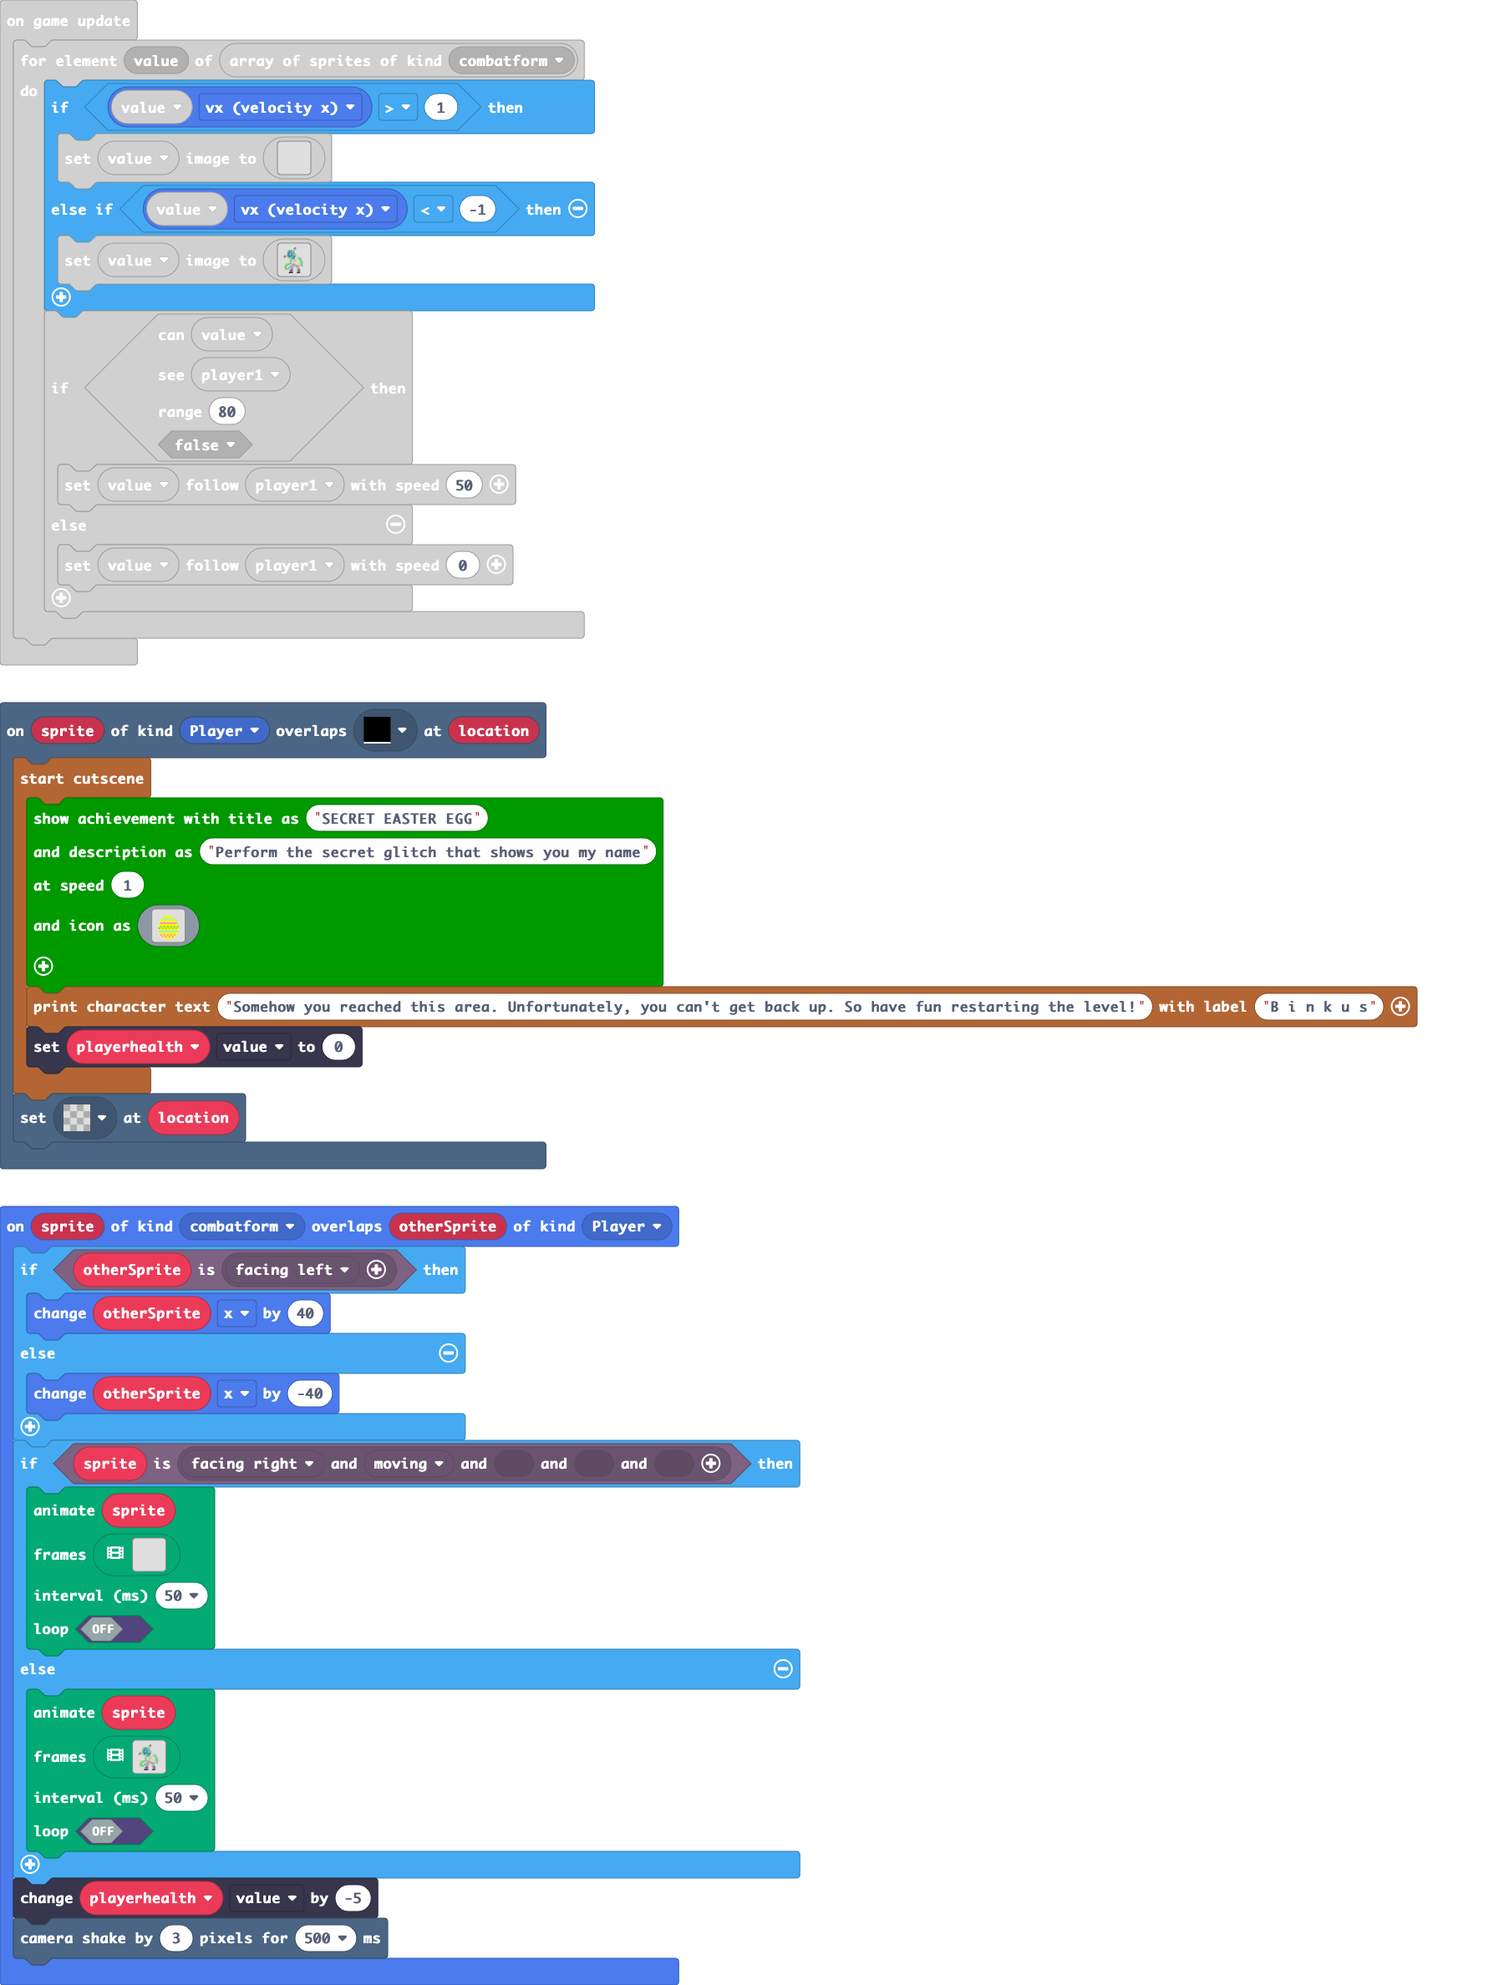
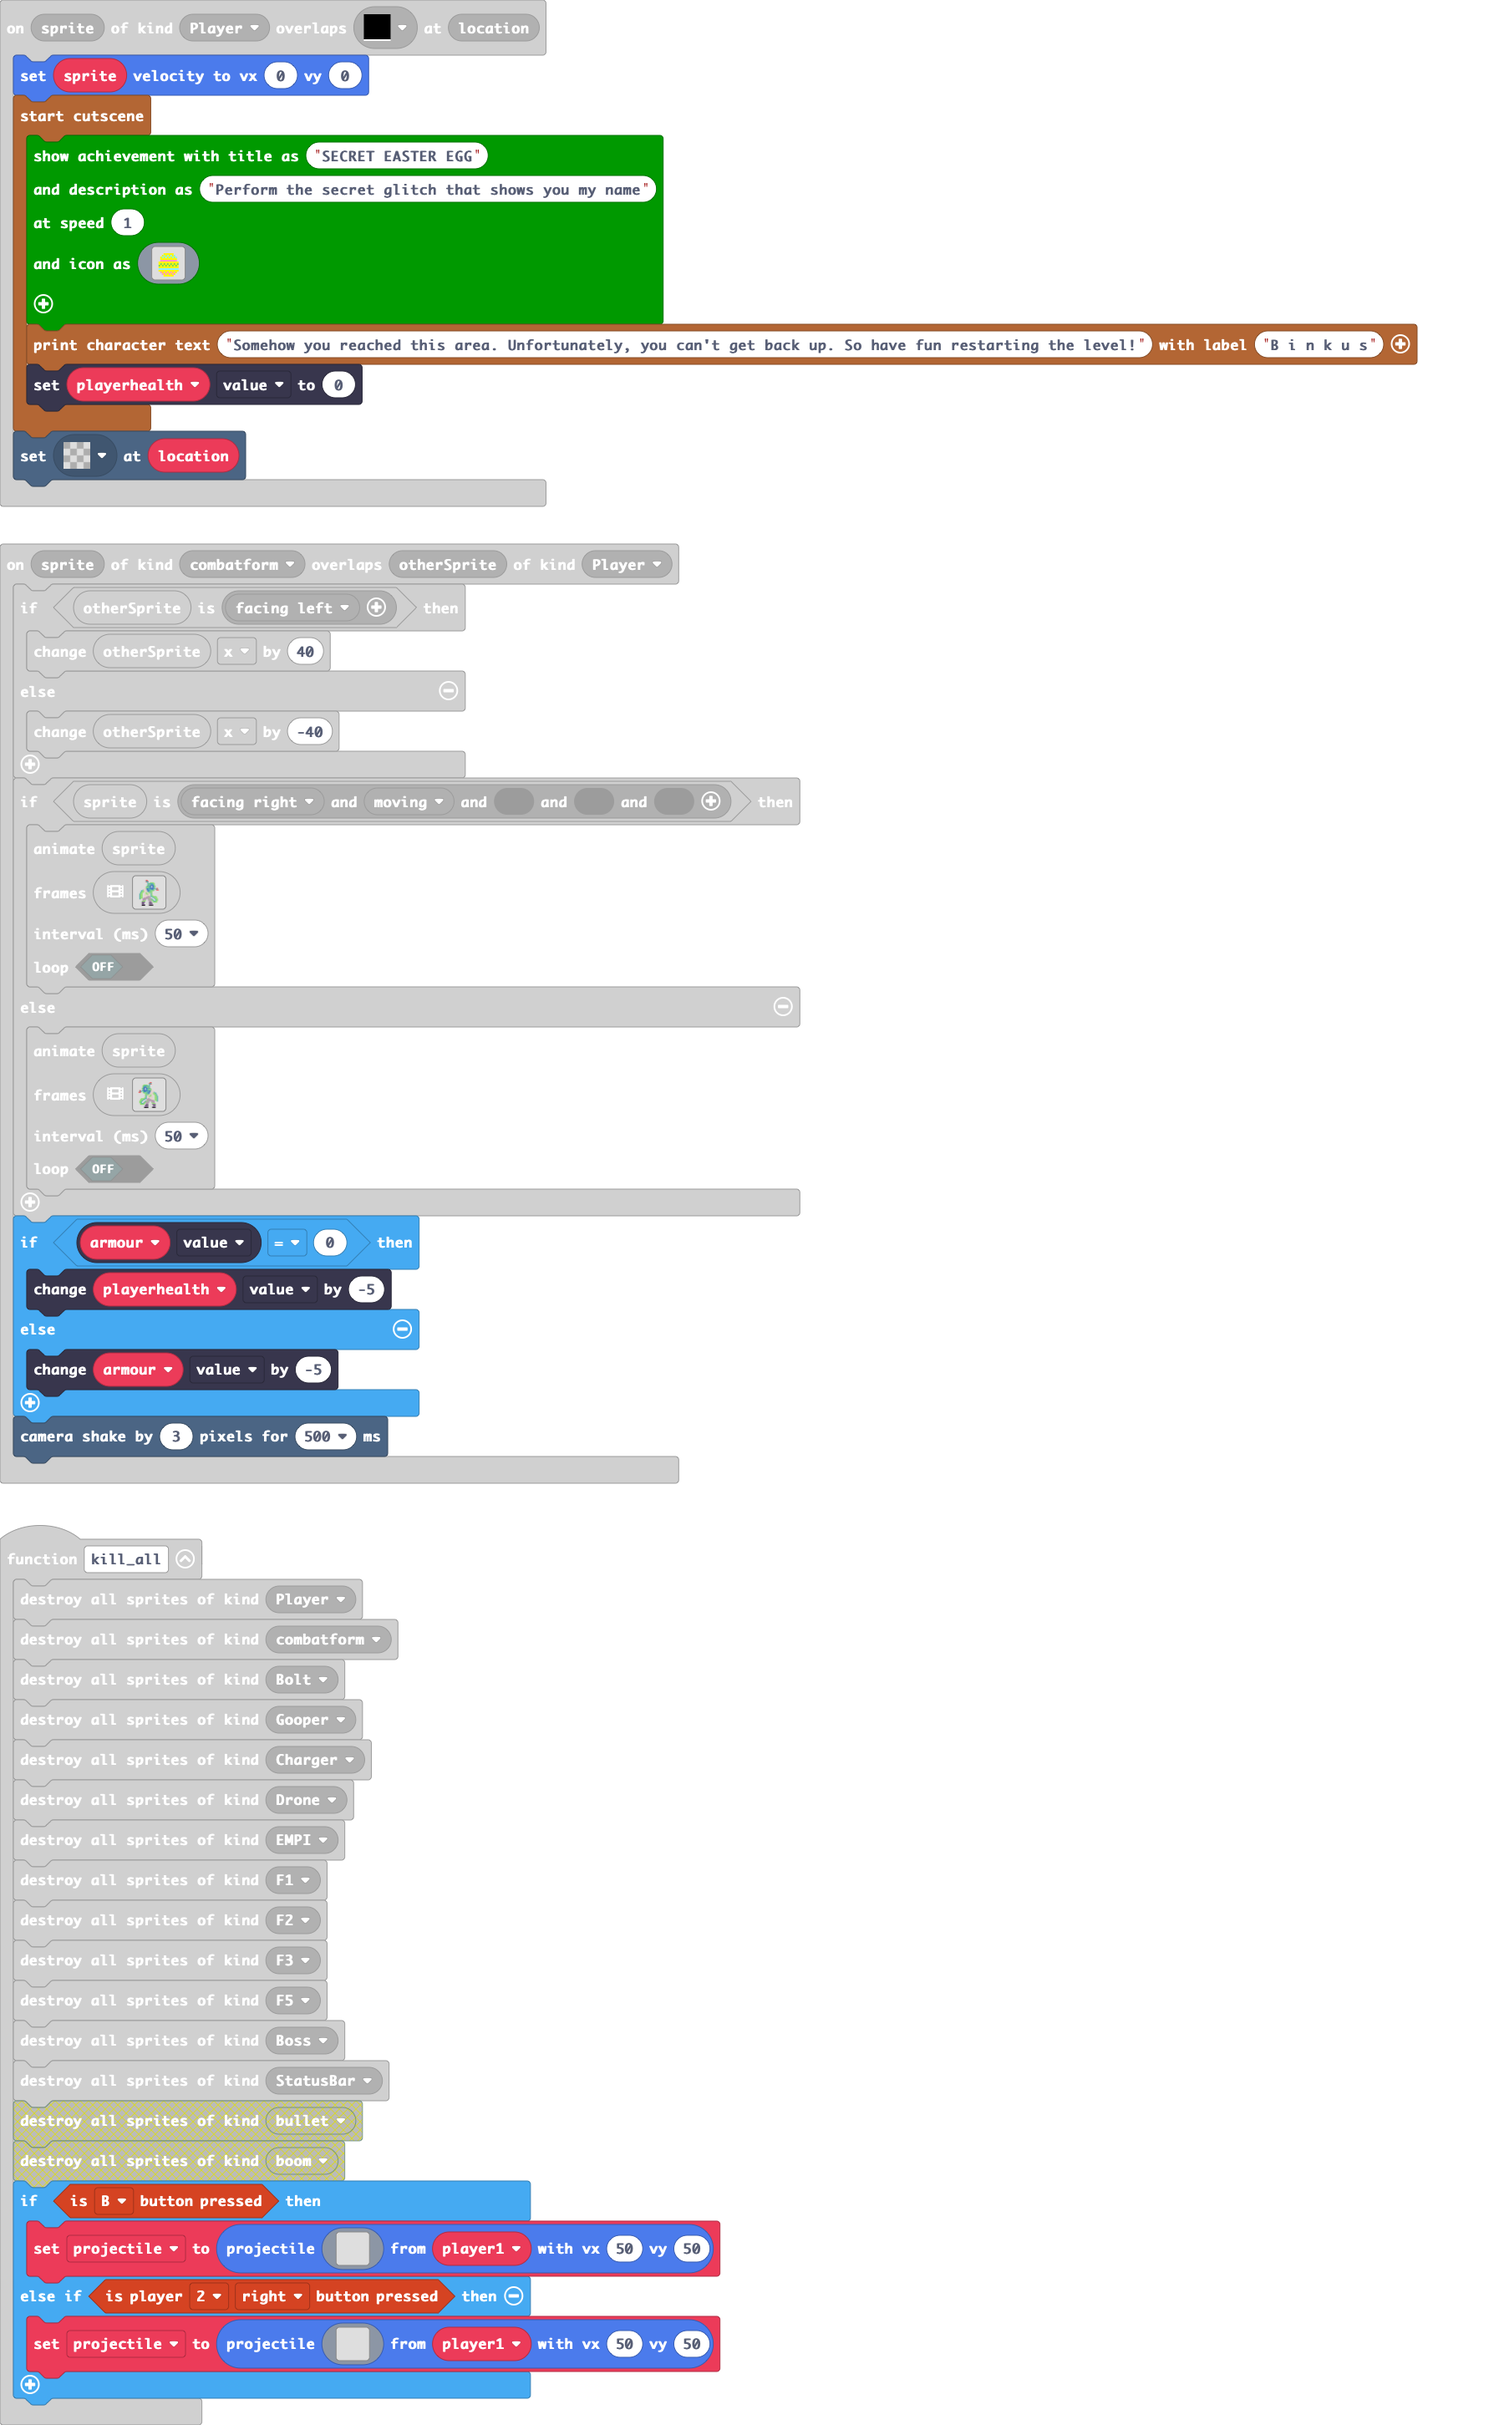
Update pxt.json, main.blocks, main.ts

diff --git a/main.ts b/main.ts
@@ -26,6 +26,7 @@ function spawnmboss3 () {
 	
 }
 scene.onOverlapTile(SpriteKind.Player, assets.tile`myTile6`, function (sprite, location) {
+    sprite.setVelocity(0, 0)
     story.startCutscene(function () {
         Achievements.showAchievement(
         "SECRET EASTER EGG",
@@ -2696,7 +2697,11 @@ sprites.onOverlap(SpriteKind.combatform, SpriteKind.Player, function (sprite, ot
         false
         )
     }
-    playerhealth.value += -5
+    if (armour.value == 0) {
+        playerhealth.value += -5
+    } else {
+        armour.value += -5
+    }
     scene.cameraShake(3, 500)
 })
 statusbars.onZero(StatusBarKind.EnemyHealth, function (status) {
@@ -3752,8 +3757,45 @@ function kill_all () {
     tiles.destroySpritesOfKind(SpriteKind.F5)
     tiles.destroySpritesOfKind(SpriteKind.Boss)
     tiles.destroySpritesOfKind(SpriteKind.StatusBar)
-    tiles.destroySpritesOfKind(SpriteKind.bullet)
-    tiles.destroySpritesOfKind(SpriteKind.boom)
+    if (controller.B.isPressed()) {
+        projectile = sprites.createProjectileFromSprite(img`
+            . . . . . . . . . . . . . . . . 
+            . . . . . . . . . . . . . . . . 
+            . . . . . . . . . . . . . . . . 
+            . . . . . . . . . . . . . . . . 
+            . . . . . . . . . . . . . . . . 
+            . . . . . . . . . . . . . . . . 
+            . . . . . . . . . . . . . . . . 
+            . . . . . . . . . . . . . . . . 
+            . . . . . . . . . . . . . . . . 
+            . . . . . . . . . . . . . . . . 
+            . . . . . . . . . . . . . . . . 
+            . . . . . . . . . . . . . . . . 
+            . . . . . . . . . . . . . . . . 
+            . . . . . . . . . . . . . . . . 
+            . . . . . . . . . . . . . . . . 
+            . . . . . . . . . . . . . . . . 
+            `, player1, 50, 50)
+    } else if (controller.player2.isPressed(ControllerButton.Right)) {
+        projectile = sprites.createProjectileFromSprite(img`
+            . . . . . . . . . . . . . . . . 
+            . . . . . . . . . . . . . . . . 
+            . . . . . . . . . . . . . . . . 
+            . . . . . . . . . . . . . . . . 
+            . . . . . . . . . . . . . . . . 
+            . . . . . . . . . . . . . . . . 
+            . . . . . . . . . . . . . . . . 
+            . . . . . . . . . . . . . . . . 
+            . . . . . . . . . . . . . . . . 
+            . . . . . . . . . . . . . . . . 
+            . . . . . . . . . . . . . . . . 
+            . . . . . . . . . . . . . . . . 
+            . . . . . . . . . . . . . . . . 
+            . . . . . . . . . . . . . . . . 
+            . . . . . . . . . . . . . . . . 
+            . . . . . . . . . . . . . . . . 
+            `, player1, 50, 50)
+    }
 }
 function spawncharger () {
 	
@@ -3863,10 +3905,11 @@ sprites.onOverlap(SpriteKind.boom, SpriteKind.combatform, function (sprite, othe
 function spawndrone () {
 	
 }
-let armour: StatusBarSprite = null
 let turret: Sprite = null
+let projectile: Sprite = null
 let boomza: Sprite = null
 let level = 0
+let armour: StatusBarSprite = null
 let rocketbar: StatusBarSprite = null
 let mag = 0
 let statusbar: StatusBarSprite = null
